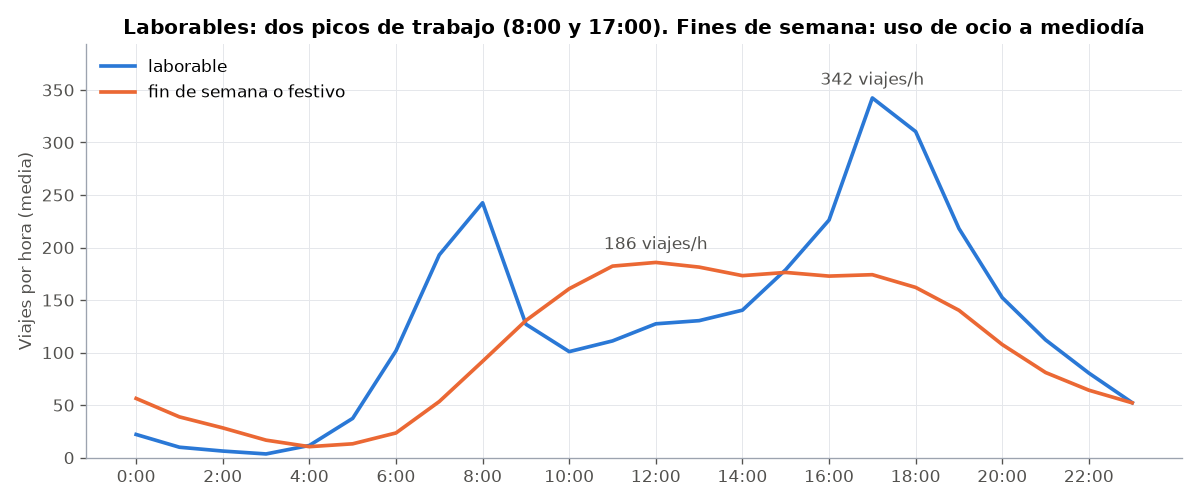
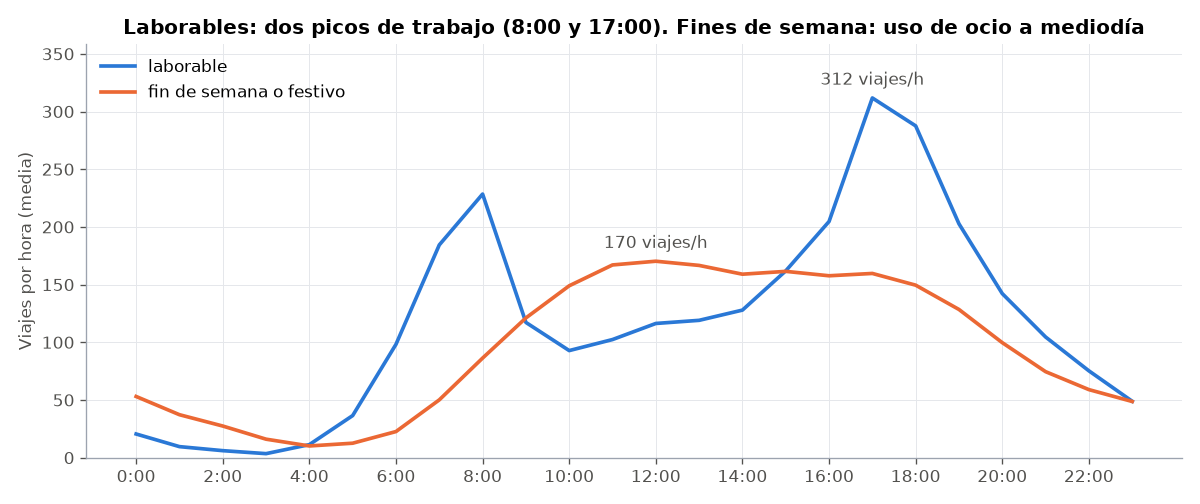
fix: demanda horaria real del sistema y CI en verde sin Pages
- graficos.py: la curva horaria sumaba las medias de cada estacion, cada una
  calculada sobre sus propios dias activos, e inflaba los picos un ~8 %
  (243 -> 228 viajes/h a las 8:00; 342 -> 312 a las 17:00). Ahora sale de
  fct_trips + dim_date y cuadra con los 2.814 viajes de un laborable medio.
- README y exposure actualizados con las cifras y las tablas que se leen.
- mart_od_flows: distancia aproximada con la mediana en vez de any_value
  (determinista entre ejecuciones).
- CI: el job de despliegue de Pages es continue-on-error, para que la
  insignia no salga en rojo mientras Pages no este activado.

diff --git a/graficos.py b/graficos.py
@@ -52,9 +52,22 @@ def guardar(fig, nombre: str) -> None:
 
 
 def demanda_horaria(con) -> None:
+    # Media del sistema: viajes de cada hora / días de ese tipo en el periodo.
+    # No se suman las medias de mart_station_hourly_profile: cada estación se promedia
+    # sobre los días en que existía, y sumarlas inflaría la demanda de los primeros
+    # meses con estaciones que aún no estaban abiertas (~8 % de más).
     df = sql(con, """
-        select hour, day_group, sum(avg_departures) as viajes
-        from analytics.mart_station_hourly_profile
+        with dias as (
+            select date_day,
+                   case when day_type = 'laborable' then 'laborable'
+                        else 'fin de semana o festivo' end as day_group
+            from core.dim_date
+        ),
+        n_dias as (select day_group, count(*) as n from dias group by all)
+        select f.start_hour as hour, d.day_group, count(*) / any_value(n.n) as viajes
+        from core.fct_trips as f
+        join dias as d on d.date_day = f.trip_date
+        join n_dias as n using (day_group)
         group by all order by hour
     """)
     fig, ax = plt.subplots(figsize=(10, 4.2))

diff --git a/README.md b/README.md
@@ -19,7 +19,7 @@
 
 | # | Pregunta | Respuesta corta | Modelo |
 |---|---|---|---|
-| 1 | ¿Cuándo se usa la bici? | Los laborables tienen dos picos de trabajo: **8:00 (243 viajes/h)** y **17:00 (342 viajes/h)**. El fin de semana no hay picos: una meseta de ocio de 11 a 18 h. Un laborable medio tiene 2.814 viajes y un día de fin de semana, 2.323. | [`mart_station_hourly_profile`](models/marts/analytics/mart_station_hourly_profile.sql) |
+| 1 | ¿Cuándo se usa la bici? | Los laborables tienen dos picos de trabajo: **8:00 (228 viajes/h)** y **17:00 (312 viajes/h)**. El fin de semana no hay picos: una meseta de ocio de 11 a 18 h. Un laborable medio tiene 2.814 viajes y un día de fin de semana, 2.323. | [`fct_trips`](models/marts/core/fct_trips.sql) + [`dim_date`](models/marts/core/dim_date.sql) |
 | 2 | ¿Dónde se acumulan las bicis? | El balance del día engaña: casi todas las estaciones parecen "equilibradas" porque lo que entra por la mañana sale por la tarde. Por horas, **Grove St PATH gana 61 bicis de 6 a 10 h y pierde 54 de 16 a 20 h**. Lo mismo, a menor escala, en otras 8 estaciones, la mayoría junto a Hoboken Terminal, Exchange Pl o Journal Square. Entre las 9 suman **~240 bicis** cada mañana. | [`mart_station_rebalancing`](models/marts/analytics/mart_station_rebalancing.sql) |
 | 3 | ¿Cuánto frena la meteorología? | Frente a un día seco del mismo mes y tipo de día: lluvia ligera **−8 %**, nieve **−25 %** y lluvia fuerte (≥ 10 mm) **−35 %**. El 23 de febrero de 2026 un temporal cerró el sistema: **0 viajes**. | [`mart_weather_impact`](models/marts/analytics/mart_weather_impact.sql) |
 | 4 | ¿Cuánto pesa la estacionalidad? | De **907 viajes/día en febrero a 3.569 en verano**: casi 4 veces más. | [`mart_daily_demand`](models/marts/analytics/mart_daily_demand.sql) |
